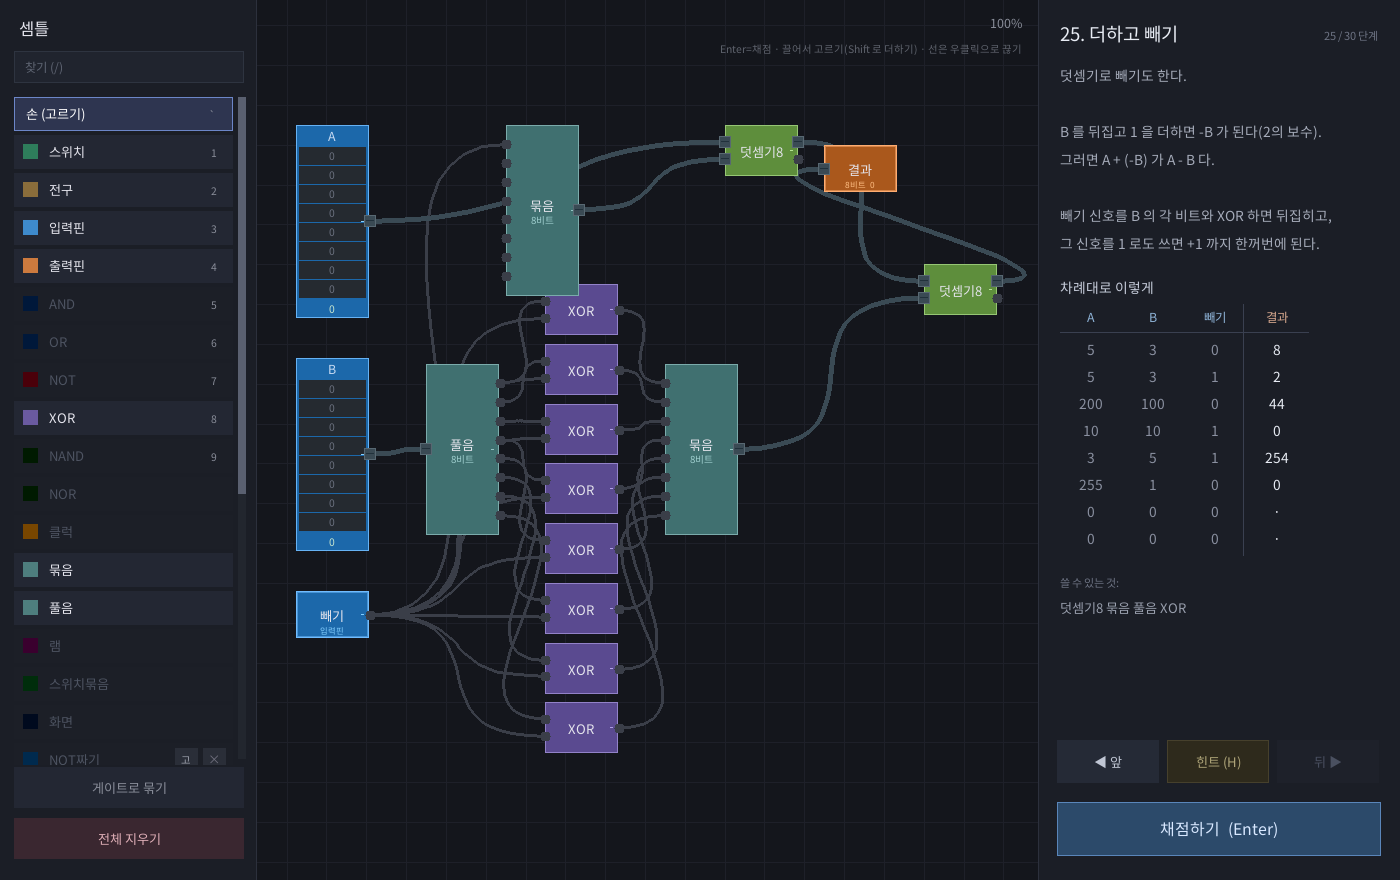
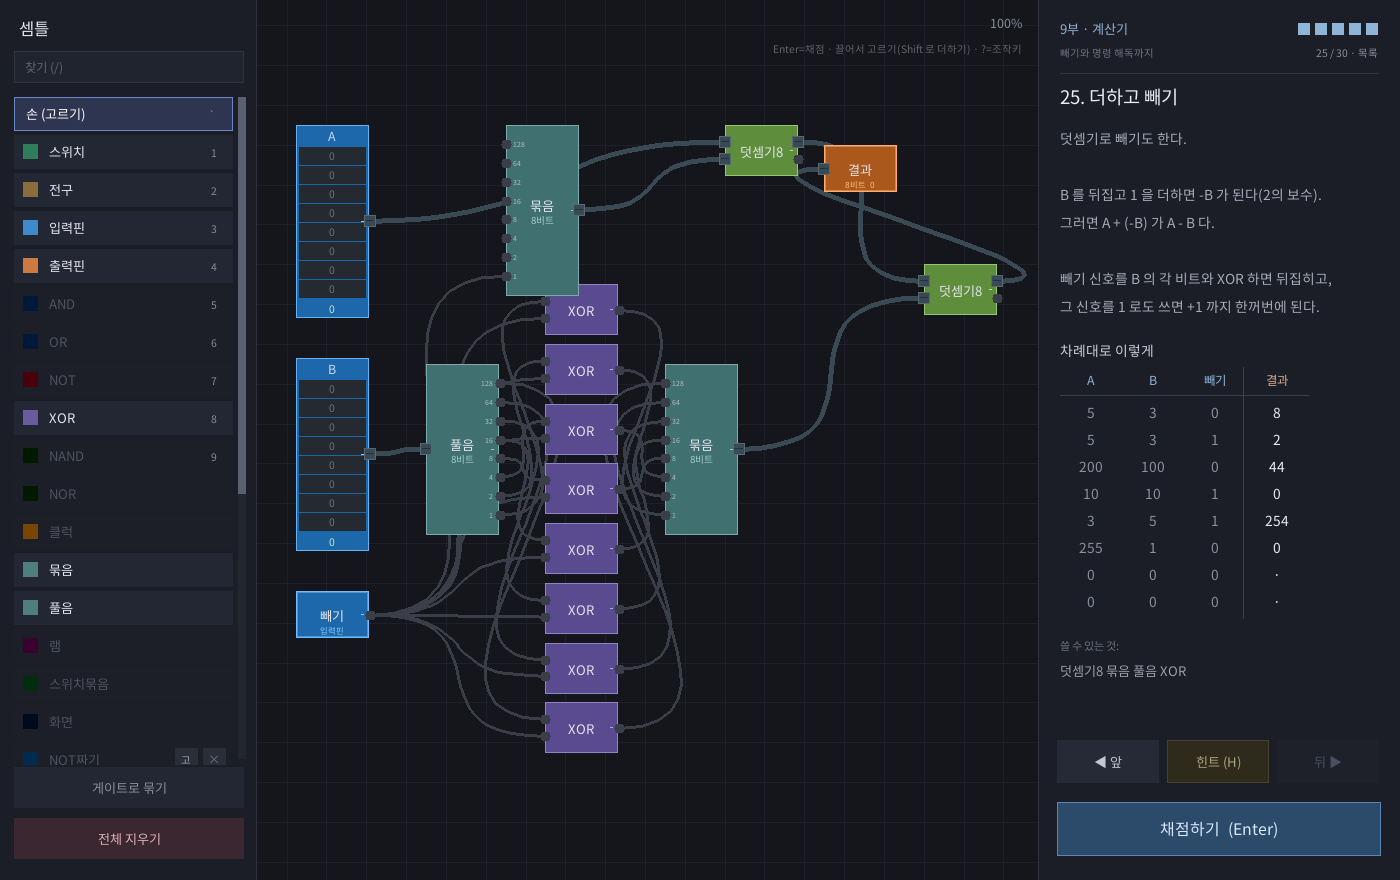
fix: 묶음·풀음도 아랫자리가 아래로. 포트에 자릿수를 적는다
스위치묶음과 폭 있는 입력핀은 맨 아래 칸이 1의 자리인데, 묶음·풀음만
반대였다. 포트가 위에서부터 0,1,2… 로 놓이고 0번이 1의 자리라
맨 위가 1의 자리였다. 세준이 더블 대블을 짜다 값이 정확히 두 배로
나와서 드러났다.

포트 번호는 그대로 두고 **놓이는 자리만** 뒤집었다. 그래야 이미 만들어 둔
회로와 저장본, 학습 칩이 하나도 안 바뀐다. 뜻은 그대로고 보이는 것만 맞춰졌다.

포트 옆에 그 자리의 값(1 2 4 8 … 32k)도 적는다. 세어 볼 필요가 없다.
너무 작게 줄이면 안 그린다.

검사 68번: 묶음·풀음의 0번이 제일 아래인지, 스위치묶음도 그런지,
게이트처럼 자릿수가 아닌 포트는 그대로인지.

정답 그림 30장 다시 뽑음.

diff --git a/semtle.cpp b/semtle.cpp
@@ -935,9 +935,18 @@ static int compW(const Comp& c) { return (c.rot & 1) ? baseH(c) : baseW(c); }
 static int compH(const Comp& c) { return (c.rot & 1) ? baseW(c) : baseH(c); }
 
 // 어느 변에 포트를 늘어놓을지: side 0=오른, 1=아래, 2=왼, 3=위
+// 묶음·풀음의 자릿수 포트는 아랫자리가 아래로 가게 뒤집는다.
+// 스위치묶음과 폭 있는 입력핀은 맨 아래 칸이 1의 자리인데, 묶음만 반대라서
+// (0번이 맨 위) 늘 헷갈렸다. 번호는 그대로 두고 놓이는 자리만 뒤집으므로
+// 이미 만들어 둔 회로와 저장본은 하나도 안 바뀐다.
+static bool 자릿수포트(const Comp& c) {
+    return c.chipId < 0 && (c.type == BUNDLE || c.type == SPLIT);
+}
+
 static void portOnSide(const Comp& c, int side, int i, int n, int& px, int& py) {
     int w = compW(c), h = compH(c);
     n = std::max(1, n);
+    if (자릿수포트(c) && n > 1) i = n - 1 - i;
     switch (side) {
         case 0: px = c.x + w;             py = c.y + h * (i + 1) / (n + 1); break;
         case 1: px = c.x + w * (i+1)/(n+1); py = c.y + h;                   break;
@@ -2482,6 +2491,28 @@ static Rect toScreen(int wx, int wy, int ww, int wh) {
 
 // 굵은 선(여러 비트) 포트는 네모로, 한 비트짜리는 동그라미로 그린다.
 // 색도 선이랑 맞춘다 — 굵은 쪽은 파랑끼, 가는 쪽은 초록.
+// 묶음·풀음 포트 옆에 그 자리의 값을 적는다 (1 2 4 8 16 …).
+// 1024부터는 자리가 좁아서 1k·2k 로 줄인다.
+static const char* 자릿값(int i) {
+    static const char* T[16] = { "1","2","4","8","16","32","64","128",
+                                 "256","512","1k","2k","4k","8k","16k","32k" };
+    return (i >= 0 && i < 16) ? T[i] : "";
+}
+
+static void 자릿수쓰기(SDL_Renderer* ren, const Comp& c, int p, int px, int py, bool 입력쪽) {
+    if (!자릿수포트(c)) return;
+    int n = 입력쪽 ? nIn(c) : nOut(c);
+    if (n <= 1) return;                       // 굵은 선 쪽에는 안 적는다
+    if (viewZoom < 0.55f) return;             // 너무 작으면 글자가 뭉갠다
+    const char* t = 자릿값(p);
+    int sx = w2sX((float)px), sy = w2sY((float)py);
+    int 안쪽 = (c.rot & 1) ? 0 : (입력쪽 ? 1 : -1);   // 상자 안쪽으로 밀어 넣기
+    int 글자 = std::max(8, w2sLen(11));
+    int w = textWidthPx(글자, t);
+    drawTextPx(ren, sx + (안쪽 >= 0 ? w2sLen(8) : -w2sLen(8) - w), sy - 글자/2,
+               글자, 0xB4BCCC, t);
+}
+
 static void drawPort(SDL_Renderer* ren, int sx, int sy, int r, int width, bool on) {
     if (width <= 1) {
         fillCircle(ren, sx, sy, r, on ? COL_ON : COL_OFF);
@@ -2655,12 +2686,14 @@ static void drawComp(SDL_Renderer* ren, int idx, const std::vector<int>& sel) {
         bool v = p < (int)c.out.size() && c.out[p] != 0;
         int wd = p < (int)c.outW.size() ? c.outW[p] : 1;
         drawPort(ren, w2sX((float)px), w2sY((float)py), pr, wd, v);
+        자릿수쓰기(ren, c, p, px, py, false);
     }
     for (int p = 0; p < nIn(c); ++p) {
         int px, py; inPort(c, p, px, py);
         bool v = p < (int)c.in.size() && c.in[p] != 0;
         int wd = p < (int)c.inW.size() ? c.inW[p] : 1;
         drawPort(ren, w2sX((float)px), w2sY((float)py), pr, wd, v);
+        자릿수쓰기(ren, c, p, px, py, true);
     }
 }
 
@@ -6062,6 +6095,52 @@ static int runTests() {
         check("모드에 들어갈 때 칩 파일을 읽는다",
               읽음 && 있음 && 상자 == 1 && 다시읽음 && !허공, buf);
         world = SubSim{}; chips.clear();
+    }
+
+    // 68. 묶음·풀음은 아랫자리가 아래에 있다 (스위치묶음과 같게)
+    {
+        world = SubSim{}; chips.clear();
+        int bu = addComp(world, BUNDLE, 100, 100);
+        world.comps[bu].aux = 8; resizePorts(world.comps[bu]);
+        int sp = addComp(world, SPLIT, 300, 100);
+        world.comps[sp].aux = 8; resizePorts(world.comps[sp]);
+        int sb = addComp(world, SWBANK, 500, 100);
+        world.comps[sb].aux = 8; resizePorts(world.comps[sb]);
+
+        // 묶음 0번(1의 자리)이 7번보다 아래에 있어야 한다
+        int x0, y0, x7, y7;
+        inPort(world.comps[bu], 0, x0, y0);
+        inPort(world.comps[bu], 7, x7, y7);
+        bool 묶음맞음 = y0 > y7;
+
+        int ox0, oy0, ox7, oy7;
+        outPort(world.comps[sp], 0, ox0, oy0);
+        outPort(world.comps[sp], 7, ox7, oy7);
+        bool 풀음맞음 = oy0 > oy7;
+
+        // 스위치묶음도 아래가 1의 자리 (누르는 자리로 확인)
+        // 위에서 아래로 훑어서 처음 잡히는 칸과 마지막 칸을 본다
+        const Comp& b2 = world.comps[sb];
+        int 위칸 = -1, 아래칸 = -1;
+        for (int y = b2.y; y < b2.y + compH(b2); ++y) {
+            int i = swBankBitAt(b2, b2.x + compW(b2)/2, y);
+            if (i < 0) continue;
+            if (위칸 < 0) 위칸 = i;
+            아래칸 = i;
+        }
+        bool 뭉치맞음 = (아래칸 == 0 && 위칸 == 7);
+
+        // 게이트처럼 자릿수가 아닌 포트는 그대로여야 한다
+        int an = addComp(world, T_AND, 700, 100);
+        int a0y, a1y, tx;
+        inPort(world.comps[an], 0, tx, a0y);
+        inPort(world.comps[an], 1, tx, a1y);
+        bool 게이트그대로 = a0y < a1y;
+
+        std::snprintf(buf, sizeof(buf), "묶음 %d, 풀음 %d, 스위치묶음 아래=%d·위=%d, 게이트 %d",
+                      (int)묶음맞음, (int)풀음맞음, 아래칸, 위칸, (int)게이트그대로);
+        check("아랫자리가 아래에 있다", 묶음맞음 && 풀음맞음 && 뭉치맞음 && 게이트그대로, buf);
+        world = SubSim{};
     }
 
     std::printf("\n%s\n", failed ? "실패 있음" : "전부 통과");

diff --git a/README.md b/README.md
@@ -254,13 +254,23 @@ SDL2 하나만 있으면 된다. 글자는 `stb_truetype.h` 로 직접 그려서
 | NAND | 2 | AND 의 반대 |
 | NOR | 2 | OR 의 반대 |
 | **클럭** | 0 | 제 박자로 혼자 켜졌다 꺼졌다 한다. `,` `.` 로 빠르기 조절 |
-| **묶음** | N | 가는 선 N개를 굵은 선 하나로 (0번이 제일 아랫자리) |
-| **풀음** | 1 | 굵은 선 하나를 가는 선 N개로 |
+| **묶음** | N | 가는 선 N개를 굵은 선 하나로. **맨 아래가 1의 자리** |
+| **풀음** | 1 | 굵은 선 하나를 가는 선 N개로. **맨 아래가 1의 자리** |
 | **램** | 4 | 주소·데이터·쓰기·클럭 → 데이터. 256칸 × 8비트 |
 | **스위치묶음** | 0 | 스위치 n개를 한 부품으로. 칸을 눌러 비트를 켜고 끈다 |
 | **화면** | n | n개의 m비트를 n줄 × m칸 점으로 (n, m ≤ 16) |
 
 여기에 **직접 묶은 커스텀 게이트**가 왼쪽 목록에 계속 붙는다(아래 참고).
+
+## 자릿수는 아래가 1
+
+스위치묶음과 폭 있는 입력핀은 **맨 아래 칸이 1의 자리**다. 묶음·풀음도 그렇게 맞췄다.
+포트 옆에 그 자리의 값(`1 2 4 8 …`)을 적어 두어서 세어 볼 필요가 없다.
+
+한동안 묶음만 반대였다 — 포트가 위에서부터 0,1,2… 로 놓이는데 0번이 1의 자리라
+**맨 위가 1의 자리**였다. 그래서 값이 뒤집혀 나오는 일이 잦았다.
+고칠 때 포트 **번호는 그대로 두고 놓이는 자리만 뒤집었다.** 그래야 이미 만들어 둔
+회로와 저장본이 하나도 안 바뀐다.
 
 ## 굵은 선 (여러 비트)
 
@@ -454,7 +464,7 @@ cmd 에는 `mkdir -p` 가 없고, `rename` 은 대상 파일이 이미 있으면
 
 ## 검사
 
-`./semtle --test` 는 화면 없이 회로만 짜서 돌려 본다. 지금 67가지.
+`./semtle --test` 는 화면 없이 회로만 짜서 돌려 본다. 지금 68가지.
 글꼴도 같이 읽어 둔다 — 안 그러면 글자 너비가 0 이라 자리 검사가 헛돈다.
 
 
@@ -506,6 +516,7 @@ cmd 에는 `mkdir -p` 가 없고, `rename` 은 대상 파일이 이미 있으면
 - **조작키 창이 창 안에 들어온다** (배율 넷 × 창 셋. 두 칸이 겹치는지까지)
   화면 검사에서는 **진짜 `?` 키를 눌러서** 연다 — 안에서 깃발만 켜고 보면
   키를 받는 코드가 통째로 빠져도 모른 채 지나간다 (실제로 그랬다)
+- **아랫자리가 아래에 있다** (묶음·풀음·스위치묶음이 다 같은 방향인지)
 - **같은 자리에 두 번 저장해도 된다** (윈도우에서 두 번째 저장이 조용히 실패하던 것)
 - **만든 게이트가 자동 저장에 남는다** (판과 칩이 다른 파일이라 칩 쪽만 빠질 수 있다)
 - **모드에 들어갈 때 칩 파일을 읽는다** (안 읽어서 만든 게이트가 통째로 사라졌다.
@@ -568,5 +579,5 @@ ASan/UBSan 으로도 둘 다 깨끗하다.
 |---|---|
 | 코드 | `semtle.cpp` 한 파일 |
 | 필요한 것 | SDL2 하나 |
-| 검사 | 67가지, 전부 통과 |
+| 검사 | 68가지, 전부 통과 |
 | 시작 | 2026년 8월 |
